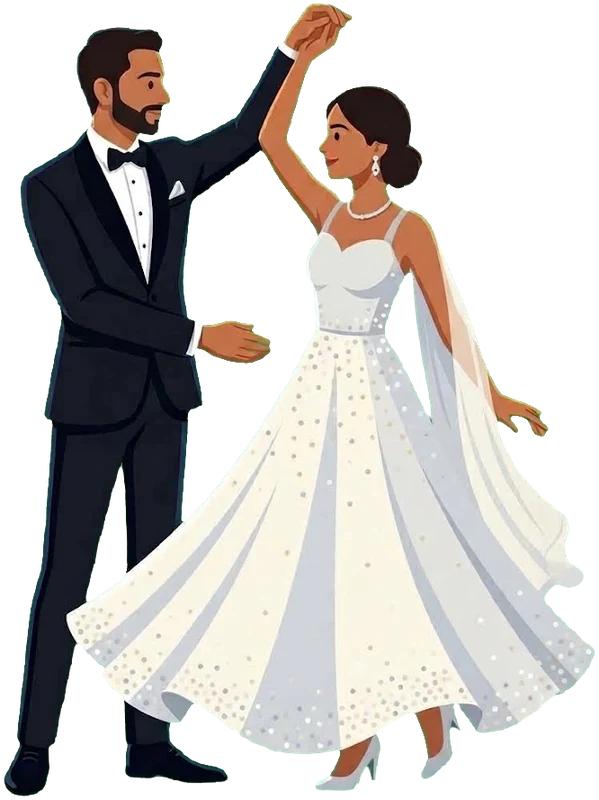
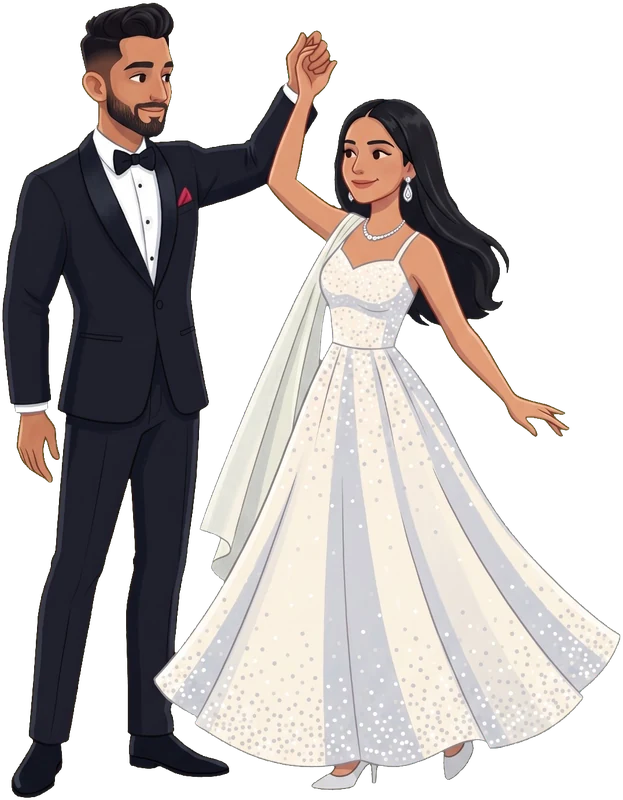
Add files via upload

diff --git a/arushi/index.html b/arushi/index.html
@@ -3121,9 +3121,9 @@ sup.ord{font-size:.58em;letter-spacing:.04em;vertical-align:super;text-transform
           <image id="sangeet-mirror-ball" class="scene-sway" style="transform-origin:50% 0" href="../assets/sangeet-mirror-ball.webp" x="162" y="58" width="36" height="60"/>
           <!-- asset 17: guest couples set back on the floor; asset 16: the couple mid-twirl in front -->
           <g id="sangeet-dancers">
-            <image href="../assets/sangeet-guests-left.webp" x="34" y="158" width="69" height="118"/>
-            <image href="../assets/sangeet-guests-right.webp" x="246" y="158" width="106" height="118"/>
-            <image id="sangeet-couple" href="../assets/sangeet-couple.webp" x="124" y="128" width="112" height="150"/>
+            <image href="../assets/sangeet-guests-left.webp" x="36" y="158" width="64.7" height="118"/>
+            <image href="../assets/sangeet-guests-right.webp" x="252.4" y="166.3" width="93.8" height="109.7"/>
+            <image id="sangeet-couple" href="../assets/sangeet-couple.webp" x="121.6" y="128" width="116.8" height="150"/>
           </g>
         </svg>
         <footer class="poster-detail">

diff --git a/index.html b/index.html
@@ -3122,9 +3122,9 @@ sup.ord{font-size:.58em;letter-spacing:.04em;vertical-align:super;text-transform
           <image id="sangeet-mirror-ball" class="scene-sway" style="transform-origin:50% 0" href="assets/sangeet-mirror-ball.webp" x="162" y="58" width="36" height="60"/>
           <!-- asset 17: guest couples set back on the floor; asset 16: the couple mid-twirl in front -->
           <g id="sangeet-dancers">
-            <image href="assets/sangeet-guests-left.webp" x="34" y="158" width="69" height="118"/>
-            <image href="assets/sangeet-guests-right.webp" x="246" y="158" width="106" height="118"/>
-            <image id="sangeet-couple" href="assets/sangeet-couple.webp" x="124" y="128" width="112" height="150"/>
+            <image href="assets/sangeet-guests-left.webp" x="36" y="158" width="64.7" height="118"/>
+            <image href="assets/sangeet-guests-right.webp" x="252.4" y="166.3" width="93.8" height="109.7"/>
+            <image id="sangeet-couple" href="assets/sangeet-couple.webp" x="121.6" y="128" width="116.8" height="150"/>
           </g>
         </svg>
         <footer class="poster-detail">
